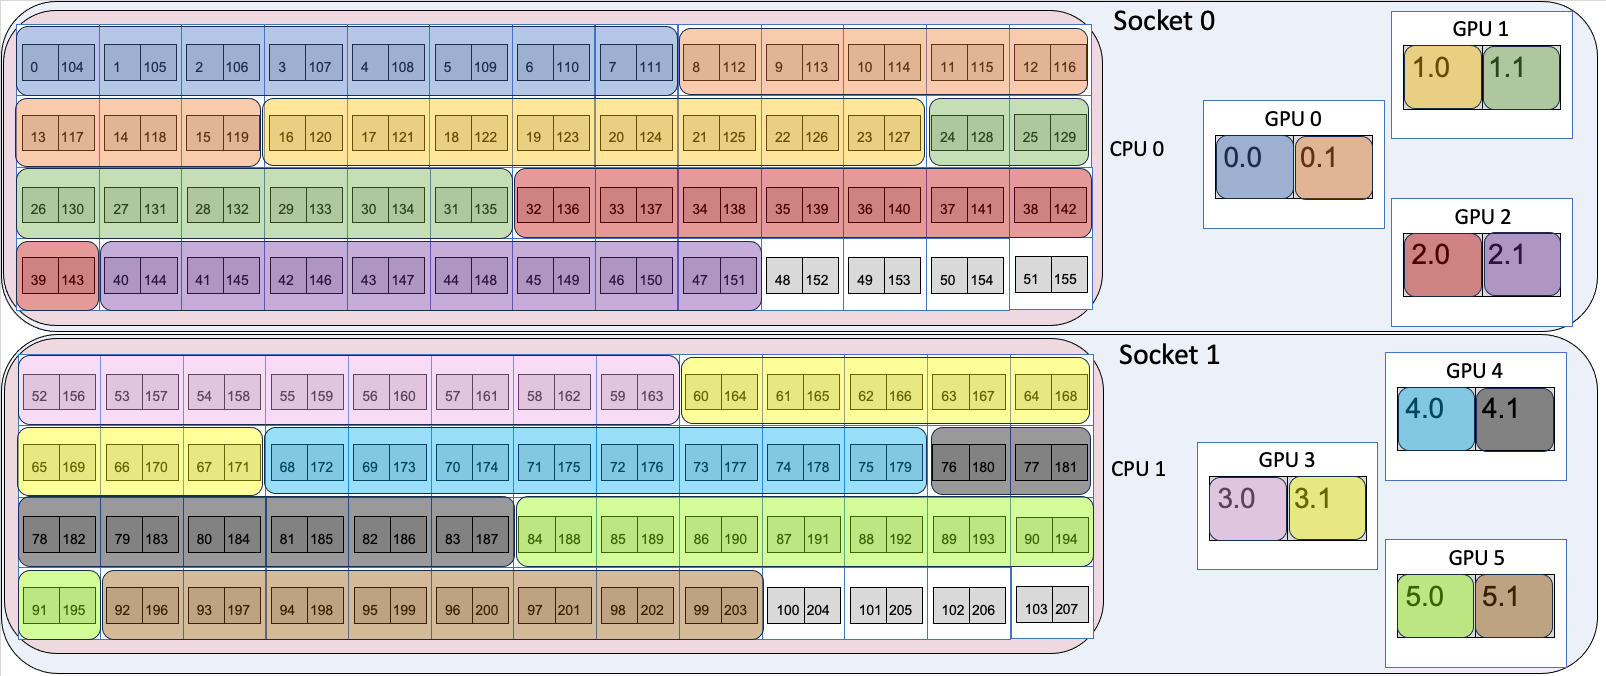
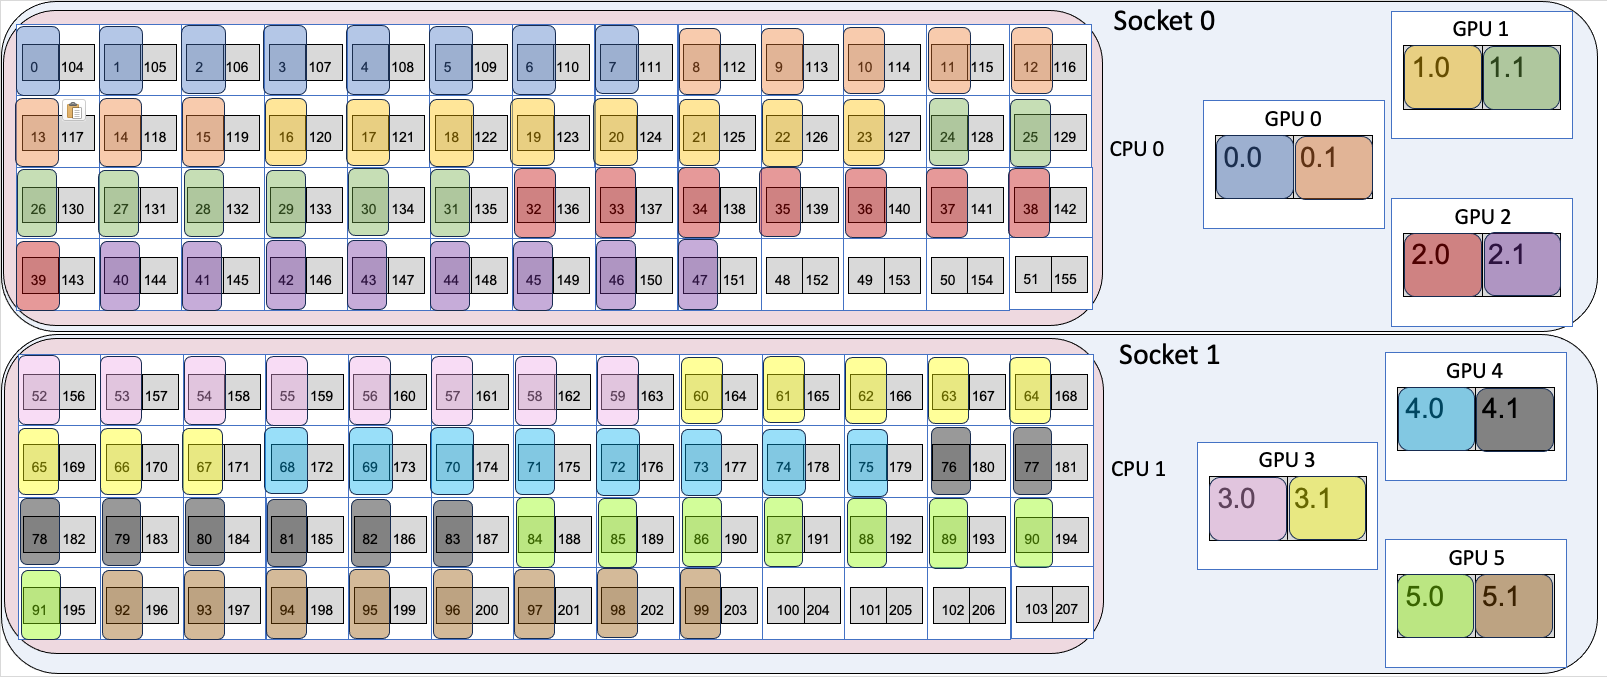
updating images

diff --git a/docs/aurora/running-jobs-aurora.md b/docs/aurora/running-jobs-aurora.md
@@ -261,6 +261,14 @@ Assuming the job was allocated on node 0 and node 1, the mapping looks like:
 
 The important point here is that with explicit binding, we were able to ensure socket 0 had 6 ranks and socket 1 has 6 ranks. Note how MPI rank 5 ends at logical processor 47, but MPI rank 6 begins with logical processor 52, so this involves leaving several cores empty. However, it allows the cores to be spread evenly across the two sockets.   
 
+The figure below shows the mapping, where the different colors are different MPI ranks.
+
+<figure markdown>
+  ![Example4](images/example4.png){ width="700" }
+  <figcaption>Example 4 Mapping </figcaption>
+</figure>
+
+
 If instead we used "--depth" as so:
 ```
 mpiexec -n 12 -ppn 12 --depth 8 --cpu-bind=depth <app> <app_args>
@@ -292,7 +300,13 @@ then the mapping is:
 
 - MPI rank 11 → node 0, socket 1, logical processor 88-95
 
-Note that the threads MPI rank 6 are bound to cross both socket 0 and socket 1, which potentially will lead to worse performance than using cpu-bind=list to explicitly spread out the ranks and avoid splitting one over two sockets. 
+
+Note that the threads MPI rank 6 are bound to cross both socket 0 and socket 1, which potentially will lead to worse performance than using cpu-bind=list to explicitly spread out the ranks and avoid splitting one over two sockets. This is shown in the image below. Note that the pink MPI rank (rank 6) is split between socket 0 and socket 1.
+
+<figure markdown>
+  ![Example4](images/example4_bad.png){ width="700" }
+  <figcaption>Example 4 Mapping Which Splits a MPI Rank Across Sockets </figcaption>
+</figure>
 
 ### <a name="Binding-MPI-ranks-to-GPUs"></a>Binding MPI ranks to GPUs
 Support in MPICH on Aurora to bind MPI ranks to GPUs is currently work-in-progress. For applications that need this support, this instead can be handled by use of a small helper script that will appropriately set `ZE_AFFINITY_MASK` for each MPI rank. Users are encouraged to use the `/soft/tools/mpi_wrapper_utils/gpu_tile_compact.sh` script for instances where each MPI rank is to be bound to a single GPU tile with a round-robin assignment.
@@ -333,7 +347,7 @@ mpiexec -n 12 -ppn 12 --cpu-bind=list:0-7:8-15:16-23:24-31:32-39:40-47:52-59:60-
 - The /soft/tools/mpi_wrapper_utils/gpu_tile_compact.sh wrapper sets ZE_AFFINITY_MASK for each of the 12 ranks such that rank 0 maps to GPU 0, Tile 0, rank 1 maps to GPU 0, Tile 1, rank 2 naps to GPU 1, Tile 0 etc. in a round-robin compact fashion.  
 
 #### Resulting mapping
-This is one of the most common cases, with 1 MPI rank targeting each GPU tile. Assuming the job was allocated on node 0 and node 1, the mapping looks like:
+This is one of the most common cases, with 1 MPI rank targeting each GPU tile. A figure representing this is below. The different MPI ranks are represented by different colors. Assuming the job was allocated on node 0 and node 1, the mapping looks like:
 
 
 - MPI rank 0 → node 0, socket 0, logical processors 0-7, GPU 0, Tile 0
@@ -359,6 +373,11 @@ This is one of the most common cases, with 1 MPI rank targeting each GPU tile. A
 - MPI rank 10 → node 0, socket 1, logical processor 84-91, GPU 5, Tile 0
 
 - MPI rank 11 → node 0, socket 1, logical processor 92-99, GPU 5, Tile 1
+
+<figure markdown>
+  ![Example5](images/example5.png){ width="700" }
+  <figcaption>Example 1 GPU Tile Mapping </figcaption>
+</figure>
 
 
 ## <a name="Interactive-Jobs-on-Compute-Nodes"></a>Interactive Jobs on Compute Nodes
